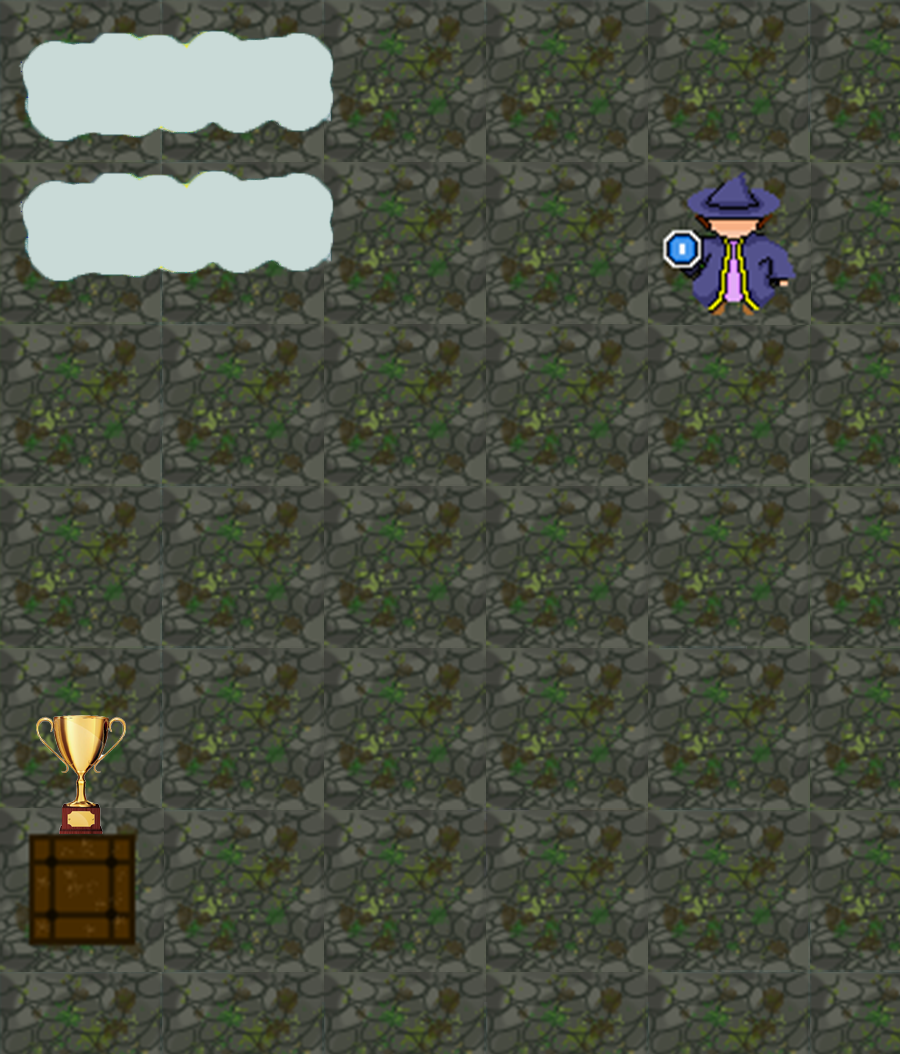
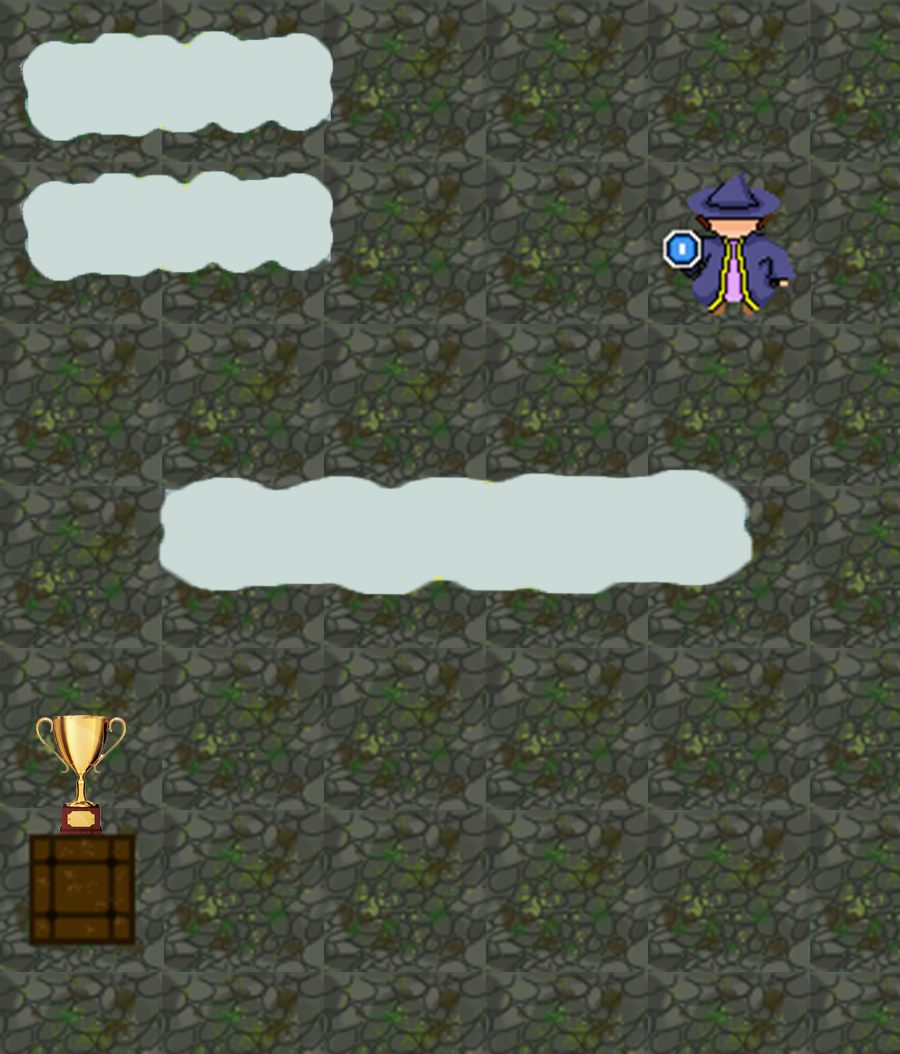
creating images and update save text

Changed region(s): [[0.1556, 0.425, 0.84, 0.5769]]

diff --git a/src/display/create.py b/src/display/create.py
@@ -240,7 +240,7 @@ class CreateScreen(BaseScreen):
     def draw_save(self):
         self.draw_background_image()
         self.draw_text(
-            text="Enter grid name : ",
+            text=" Enter grid name \n Press enter to save : ",
             color=Colors.BLACK,
             center=(Sizes.WIDTH // 2, Sizes.HEIGHT // 2 - 100)
         )

diff --git a/src/display/game.py b/src/display/game.py
@@ -259,7 +259,7 @@ class GameScreen(BaseScreen):
             center=(100, 150)
         )
         self.draw_text(
-            text="Add player name",
+            text=" Add player name \n Press Enter to save :",
             color=Colors.BLACK,
             center=(Sizes.WIDTH // 2, Sizes.HEIGHT // 2 - 100)
         )
